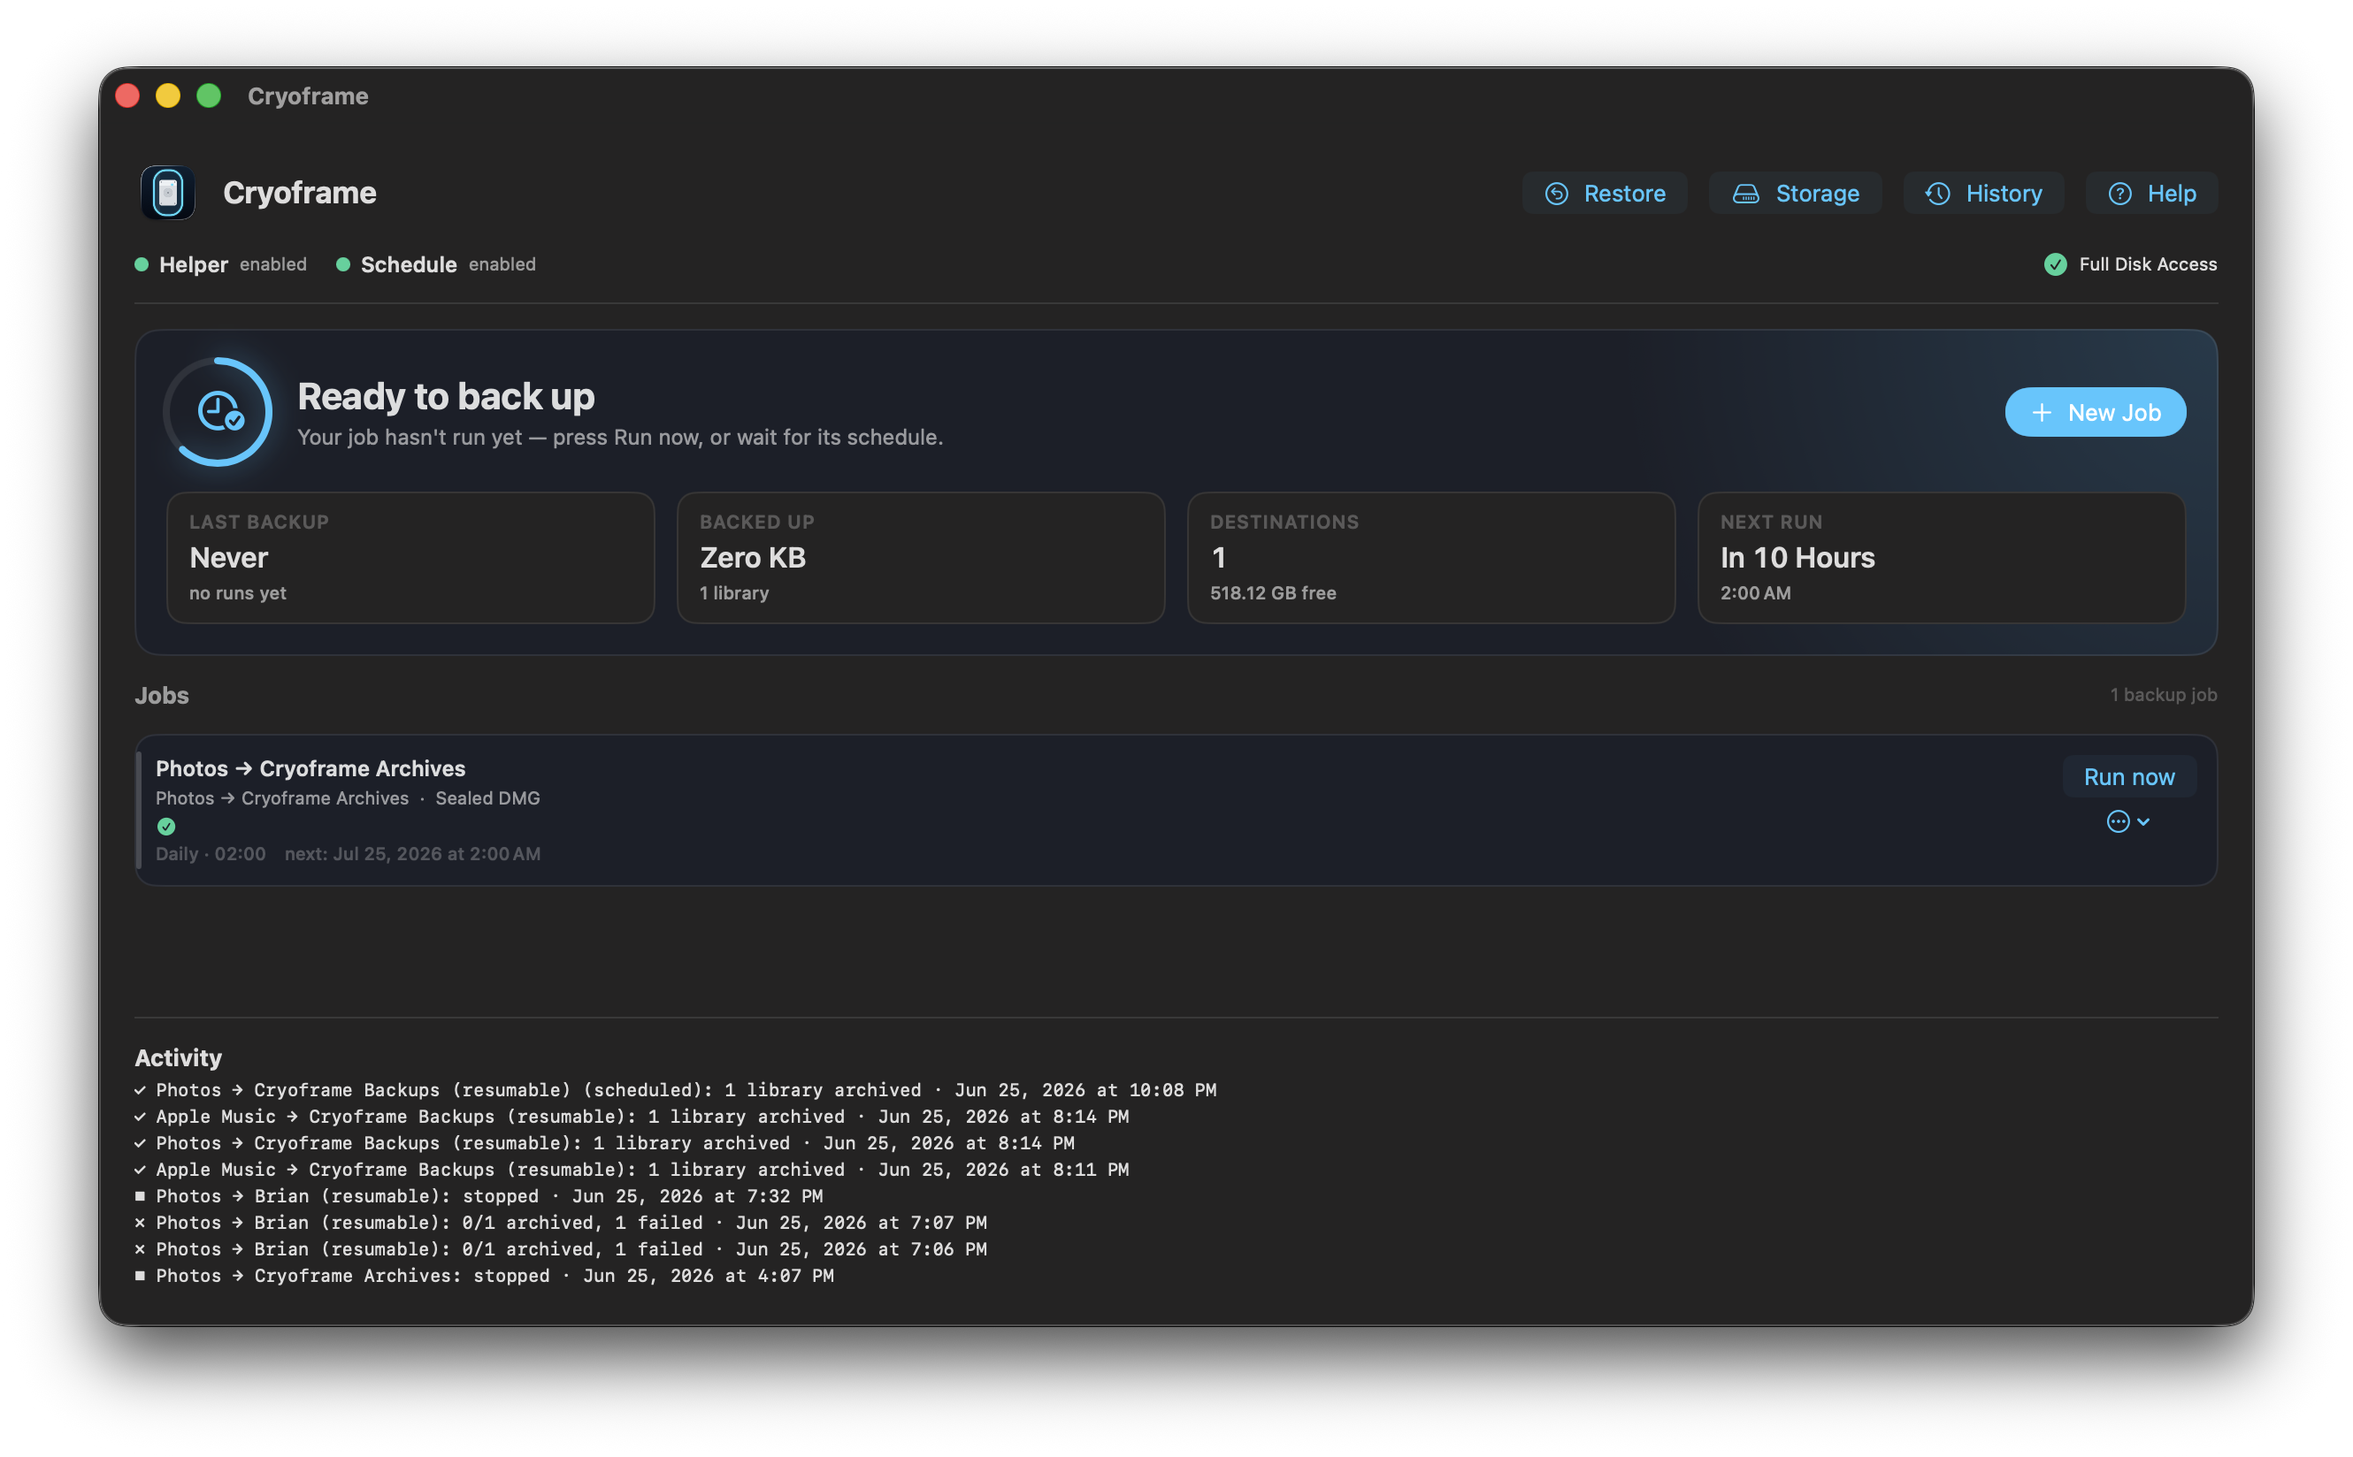
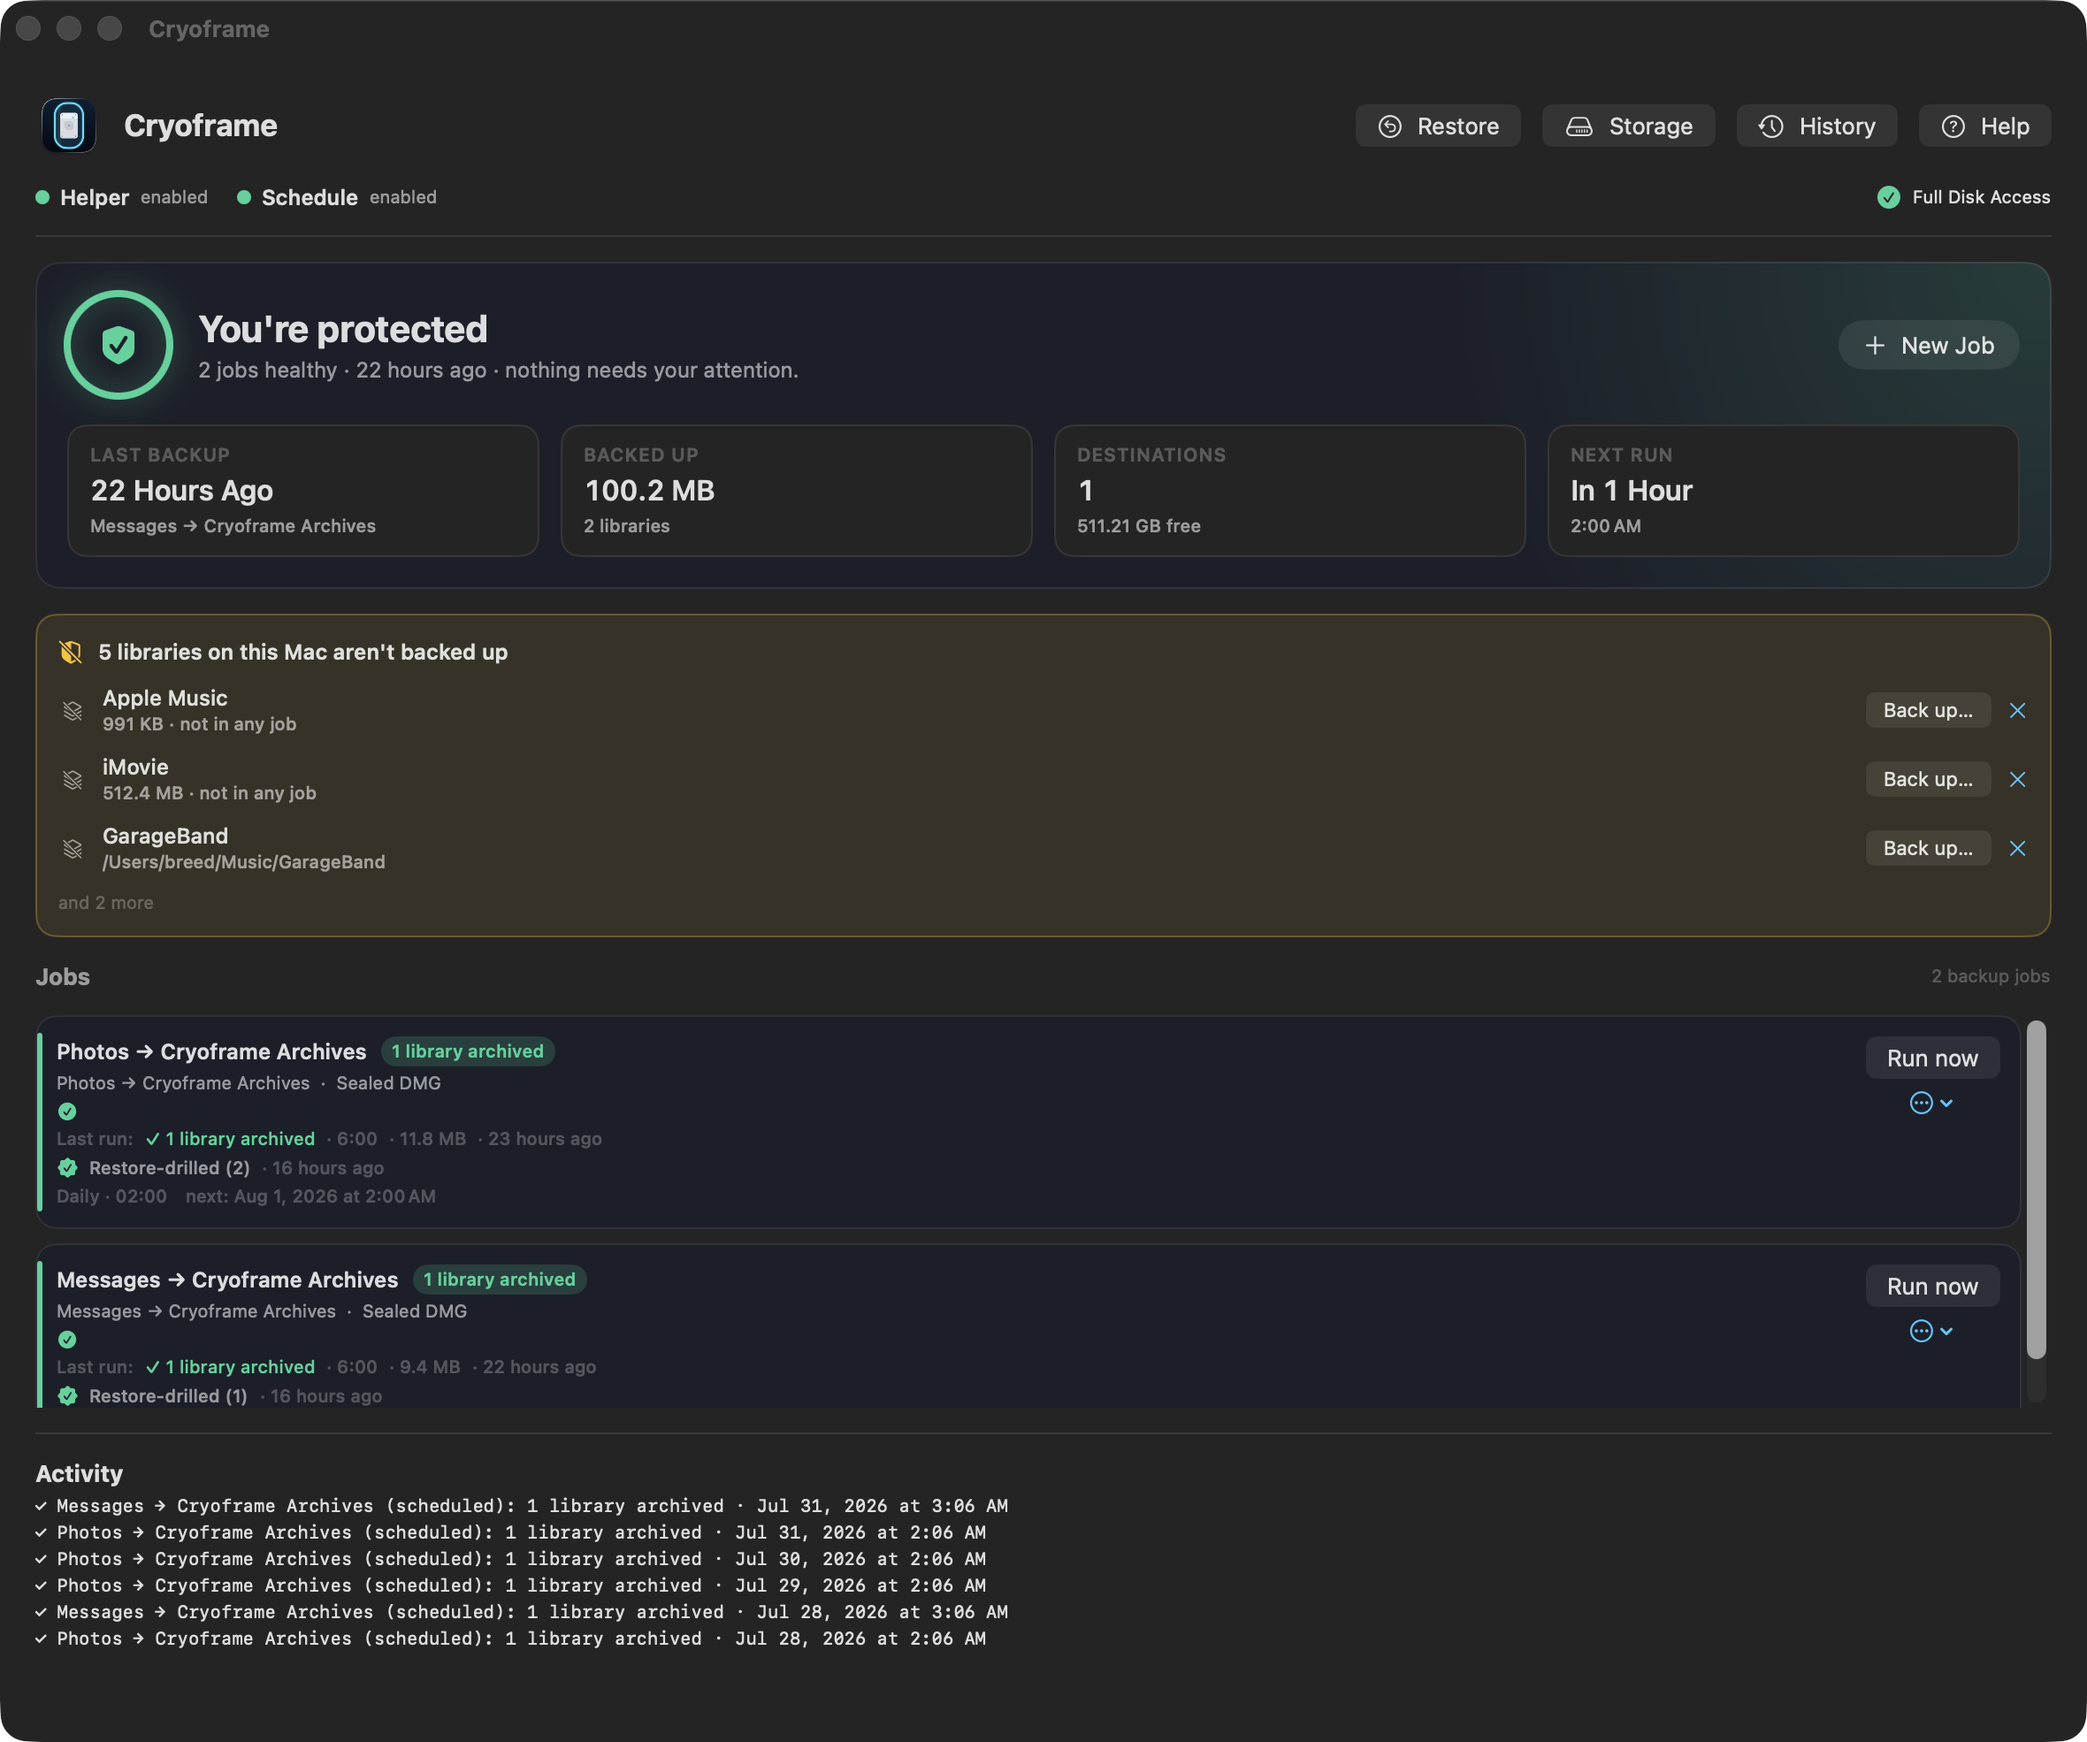
docs: real 1.4 screenshots, and stop the coverage card crowding out the jobs
Taking the screenshots surfaced a bug worth more than the images. With a
coverage card showing, the job list at the default window size collapsed to
nothing: the dashboard, the card, and the activity log each took their space
and the jobs — the actual point of the window — got what was left, which was
zero. Anyone with one job and one unprotected library saw an empty gap where
their backups should be. The list now keeps a floor, and the window's minimum
height accounts for the card.

Screenshots are of the shipped UI with a plausible two-job setup: the dashboard
with the coverage card, the restore timeline showing all three badge states
(restore-tested, checksum verified, and unbadged), and the two recovery steps
that matter — choosing a moment and reviewing.

The point-in-time capture is deliberately not the trivial case. The moment is
2:00 AM on the 31st; Photos runs nightly so it contributes the 31st, while
Messages runs at 3:00 AM every few days so its last version before that moment
is the 28th. That is the whole rule in one picture.

diff --git a/Sources/Cryoframe/ContentView.swift b/Sources/Cryoframe/ContentView.swift
@@ -57,7 +57,11 @@ struct ContentView: View {
                     VStack(spacing: 8) {
                         ForEach(model.jobs) { JobRow(model: model, job: $0, onEdit: { editingJob = $0 }) }
                     }
-                }.frame(maxHeight: .infinity)
+                }
+                // the jobs ARE the window — never let the coverage card and the
+                // activity log squeeze them out. At the default size with a card
+                // showing, this list used to collapse to nothing.
+                .frame(minHeight: 132, maxHeight: .infinity)
                 if !model.activity.isEmpty {
                     Divider()
                     activity
@@ -65,7 +69,9 @@ struct ContentView: View {
             }
         }
         .padding(20)
-        .frame(minWidth: 600, minHeight: 560)
+        // tall enough that the dashboard, a coverage card, at least one job row,
+        // and the activity log all fit without anything collapsing.
+        .frame(minWidth: 600, minHeight: 620)
         .sheet(isPresented: $model.showNewJob) {
             NewJobWizard(model: model, isPresented: $model.showNewJob,
                          initialFolder: droppedFolder, initialLibraryID: model.newJobLibraryID)

diff --git a/docs/guide/restoring.md b/docs/guide/restoring.md
@@ -26,6 +26,8 @@ A live mirror has no timeline. It keeps one copy, updated in place, so there is 
 
 Select a version and the bar at the bottom names exactly what will happen when you restore it.
 
+![The restore timeline: versions by night with sizes, and badges for restore-tested and checksum-verified](../screenshots/restore-timeline.png)
+
 If an archive is encrypted, enter its passphrase. If the passphrase is still in this Mac's Keychain it is filled in for you. If not, get it from your recovery file. See [Encryption and recovery keys](encryption-and-recovery-keys.md).
 
 ## Copy a library out (the safe default)
@@ -58,7 +60,11 @@ If the Mac is new, or you have wiped this one, you are not looking for one libra
 
 **3. Point in time.** One slider chooses the moment to rebuild to, and each library shows the version it will contribute.
 
+![Choosing a moment: one slider, and each library shows the version it had then](../screenshots/recovery-point-in-time.png)
+
 This is the part worth understanding. Libraries rarely run on the same nights — Photos might back up nightly while a project folder runs weekly. When you choose a moment, each library contributes the newest version it had **at or before** that moment, never a later one. Pick Wednesday and a library whose last run was Monday gives you its Monday version, because that is what existed on Wednesday. Its Friday version holds changes that had not happened yet, so using it would rebuild a Mac that never existed. If a library is newer than the moment you chose and has nothing that old, it offers its earliest version and says so.
+
+![The review step: what will be restored, from when, to where, and how much space it needs](../screenshots/recovery-review.png)
 
 **4. Review.** Check what is about to happen. By default each library goes back to where its app looks for it, so Photos and Messages simply open what came back; use Change to put everything in one folder instead. Nothing already on this Mac is overwritten, each archive is verified before it is written, and a library that cannot be opened is skipped and reported while the rest still restore.
 

diff --git a/README.md b/README.md
@@ -158,7 +158,19 @@ Two doors, because there are two situations.
 
 **Restore (⌘R)** is for "I need that library back." Pick a library, and its versions appear on a timeline — each night with its size and how it moved. Choose one and bring it back beside your live library (the default, which changes nothing you have now) or in place over it. You can also open a version and pull out a handful of files instead of the whole thing.
 
+<p align="center">
+  <img src="docs/screenshots/restore-timeline.png" alt="The restore timeline: a library's versions by night, each with its size, and badges showing which were restore-tested or checksum verified" width="640">
+</p>
+
+A version a restore drill has opened is marked *Restore-tested*; one whose checksums were re-read is marked *Checksum verified*. A version nothing has checked yet carries no badge, because Cryoframe won't claim more than it knows.
+
 **Recover to this Mac (⇧⌘R)** is for a new or wiped Mac. It walks four steps: find the drive or folder holding your backups, unlock the encrypted libraries with the recovery-key file you exported, choose the moment to rebuild to, and restore. Every library comes back as it was at that moment. A library that did not run that night contributes the last version it had before then, never a newer one — otherwise you would get a Mac assembled out of different days.
+
+<p align="center">
+  <img src="docs/screenshots/recovery-point-in-time.png" alt="Choosing a moment to rebuild to: one slider, and each library shows the version it had at that moment" width="560">
+</p>
+
+In this example the moment is 2:00 AM on 31 July. Photos, which runs nightly, contributes its 31 July version. Messages runs every few days at 3:00 AM, so its last version before that moment is the 28th — restoring its 31st would pull in changes that had not happened yet.
 
 Both verify an archive before writing it, and neither overwrites anything already on the Mac.
 
